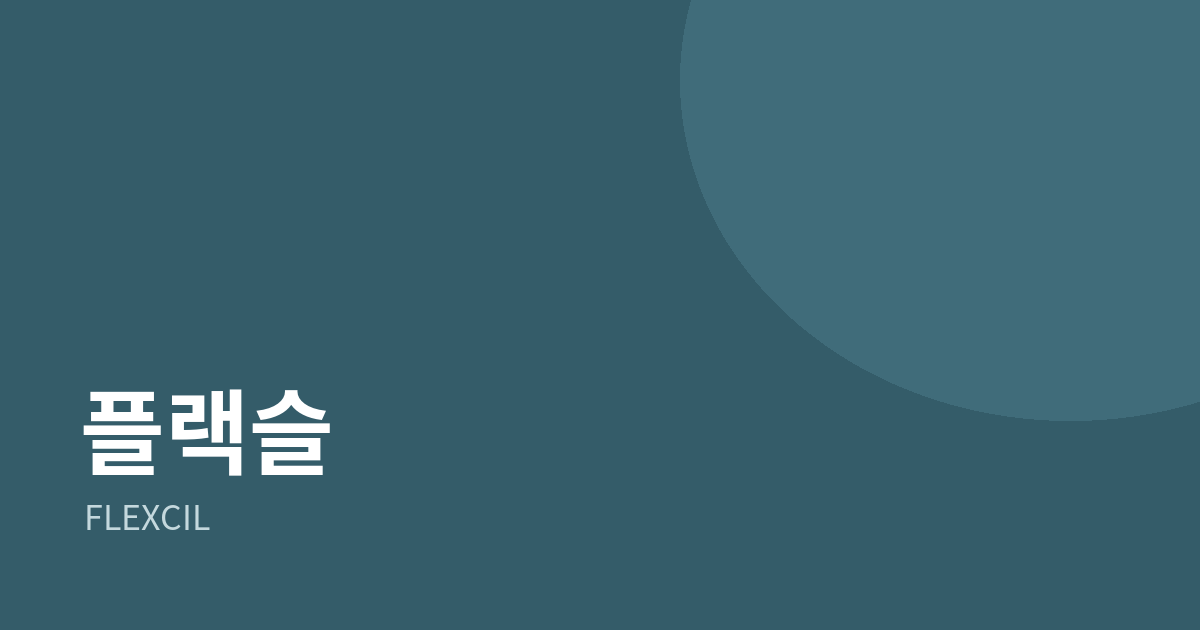
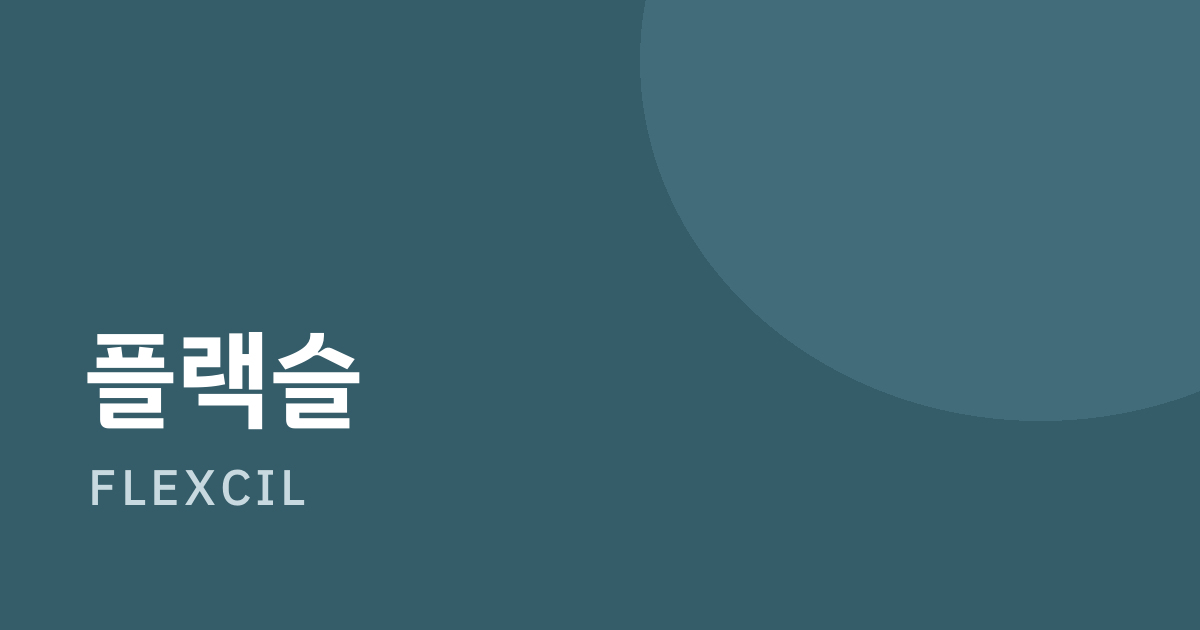
Home cards: larger titles, covers redrawn in IBM Plex Sans KR
Claude-Session: https://claude.ai/code/session_01XDpXuyQHQD34dHb3Zoswsg

Changed region(s): [[0.0617, 0.5127, 0.3083, 0.8444]]

diff --git a/README.md b/README.md
@@ -18,7 +18,7 @@ icon: hand-wave
 
 ## 바로 시작하기
 
-<table data-view="cards"><thead><tr><th></th><th></th><th data-hidden data-card-cover data-type="files"></th><th data-hidden data-card-target data-type="content-ref"></th></tr></thead><tbody><tr><td><strong>다운로드 방법</strong></td><td>PDF와 스티커북을 기기에 저장해요</td><td><a href=".gitbook/assets/cover-download.png">cover-download.png</a></td><td><a href="download/pdf.md">pdf.md</a></td></tr><tr><td><strong>굿노트</strong></td><td>Goodnotes · 아이패드</td><td><a href=".gitbook/assets/cover-goodnotes.png">cover-goodnotes.png</a></td><td><a href="goodnotes/">goodnotes</a></td></tr><tr><td><strong>삼성노트</strong></td><td>Samsung Notes · 갤럭시탭</td><td><a href=".gitbook/assets/cover-samsung-notes.png">cover-samsung-notes.png</a></td><td><a href="samsung-notes/">samsung-notes</a></td></tr><tr><td><strong>노타빌리티</strong></td><td>Notability · 아이패드</td><td><a href=".gitbook/assets/cover-notability.png">cover-notability.png</a></td><td><a href="notability/">notability</a></td></tr><tr><td><strong>노트쉘프</strong></td><td>Noteshelf · 아이패드 · 갤럭시탭</td><td><a href=".gitbook/assets/cover-noteshelf.png">cover-noteshelf.png</a></td><td><a href="noteshelf/">noteshelf</a></td></tr><tr><td><strong>플랙슬</strong></td><td>Flexcil · 아이패드 · 갤럭시탭</td><td><a href=".gitbook/assets/cover-flexcil.png">cover-flexcil.png</a></td><td><a href="flexcil/">flexcil</a></td></tr></tbody></table>
+<table data-view="cards"><thead><tr><th></th><th></th><th data-hidden data-card-cover data-type="files"></th><th data-hidden data-card-target data-type="content-ref"></th></tr></thead><tbody><tr><td><h4>다운로드 방법</h4></td><td>PDF와 스티커북을 기기에 저장해요</td><td><a href=".gitbook/assets/cover-download.png">cover-download.png</a></td><td><a href="download/pdf.md">pdf.md</a></td></tr><tr><td><h4>굿노트</h4></td><td>Goodnotes · 아이패드</td><td><a href=".gitbook/assets/cover-goodnotes.png">cover-goodnotes.png</a></td><td><a href="goodnotes/">goodnotes</a></td></tr><tr><td><h4>삼성노트</h4></td><td>Samsung Notes · 갤럭시탭</td><td><a href=".gitbook/assets/cover-samsung-notes.png">cover-samsung-notes.png</a></td><td><a href="samsung-notes/">samsung-notes</a></td></tr><tr><td><h4>노타빌리티</h4></td><td>Notability · 아이패드</td><td><a href=".gitbook/assets/cover-notability.png">cover-notability.png</a></td><td><a href="notability/">notability</a></td></tr><tr><td><h4>노트쉘프</h4></td><td>Noteshelf · 아이패드 · 갤럭시탭</td><td><a href=".gitbook/assets/cover-noteshelf.png">cover-noteshelf.png</a></td><td><a href="noteshelf/">noteshelf</a></td></tr><tr><td><h4>플랙슬</h4></td><td>Flexcil · 아이패드 · 갤럭시탭</td><td><a href=".gitbook/assets/cover-flexcil.png">cover-flexcil.png</a></td><td><a href="flexcil/">flexcil</a></td></tr></tbody></table>
 
 ## 어떤 앱을 써야 할까요?
 
